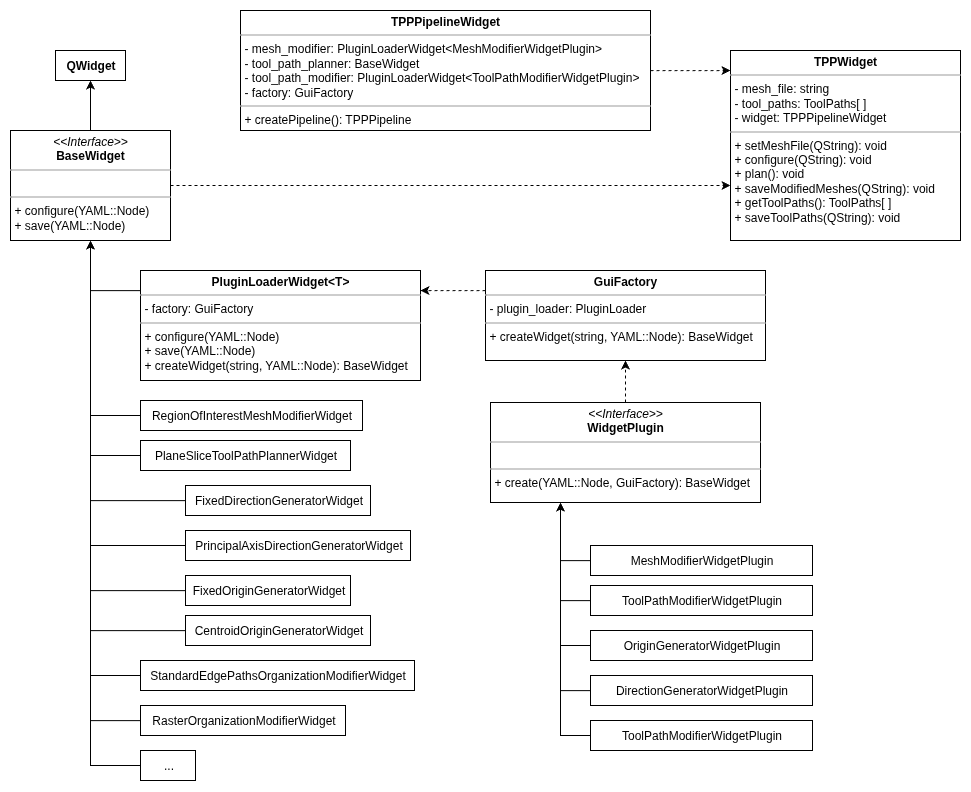
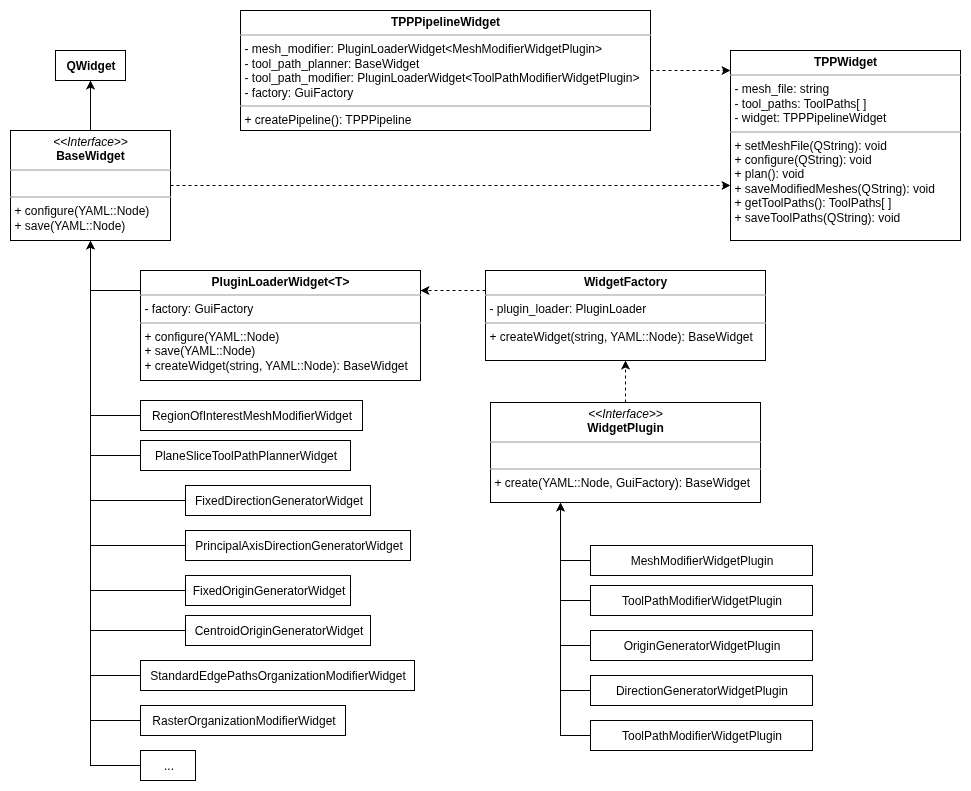
Renamed GuiFactory to WidgetFactory

diff --git a/noether_gui/src/plugin_interface.cpp b/noether_gui/src/plugin_interface.cpp
@@ -28,7 +28,7 @@ std::string noether::ToolPathModifierWidgetPlugin::getSection()
   return STRINGIFY(NOETHER_GUI_TOOL_PATH_MODIFIER_SECTION);
 }
 
-GuiFactory::GuiFactory()
+WidgetFactory::WidgetFactory()
 {
   auto loader = std::make_shared<boost_plugin_loader::PluginLoader>();
   loader->search_libraries.insert(NOETHER_PLUGIN_LIB);
@@ -38,47 +38,47 @@ GuiFactory::GuiFactory()
   loader_ = loader;
 }
 
-GuiFactory::GuiFactory(std::shared_ptr<const boost_plugin_loader::PluginLoader> loader) : Factory(loader) {}
+WidgetFactory::WidgetFactory(std::shared_ptr<const boost_plugin_loader::PluginLoader> loader) : Factory(loader) {}
 
 template <typename PluginT>
-BaseWidget* GuiFactory::createWidget(const std::string& name, const YAML::Node& config, QWidget* parent) const
+BaseWidget* WidgetFactory::createWidget(const std::string& name, const YAML::Node& config, QWidget* parent) const
 {
   if (widget_plugins_.find(name) == widget_plugins_.end())
     widget_plugins_[name] = loader_->createInstance<PluginT>(name);
 
-  auto this_shared = std::shared_ptr<const GuiFactory>(this, [](const GuiFactory*) {});
+  auto this_shared = std::shared_ptr<const WidgetFactory>(this, [](const WidgetFactory*) {});
   return widget_plugins_[name]->create(config, this_shared, parent);
 }
 
-BaseWidget* GuiFactory::createMeshModifierWidget(const std::string& name,
+BaseWidget* WidgetFactory::createMeshModifierWidget(const std::string& name,
                                                  const YAML::Node& config,
                                                  QWidget* parent) const
 {
   return createWidget<MeshModifierWidgetPlugin>(name, config, parent);
 }
 
-BaseWidget* GuiFactory::createToolPathPlannerWidget(const std::string& name,
+BaseWidget* WidgetFactory::createToolPathPlannerWidget(const std::string& name,
                                                     const YAML::Node& config,
                                                     QWidget* parent) const
 {
   return createWidget<ToolPathPlannerWidgetPlugin>(name, config, parent);
 }
 
-BaseWidget* GuiFactory::createDirectionGeneratorWidget(const std::string& name,
+BaseWidget* WidgetFactory::createDirectionGeneratorWidget(const std::string& name,
                                                        const YAML::Node& config,
                                                        QWidget* parent) const
 {
   return createWidget<DirectionGeneratorWidgetPlugin>(name, config, parent);
 }
 
-BaseWidget* GuiFactory::createOriginGeneratorWidget(const std::string& name,
+BaseWidget* WidgetFactory::createOriginGeneratorWidget(const std::string& name,
                                                     const YAML::Node& config,
                                                     QWidget* parent) const
 {
   return createWidget<OriginGeneratorWidgetPlugin>(name, config, parent);
 }
 
-BaseWidget* GuiFactory::createToolPathModifierWidget(const std::string& name,
+BaseWidget* WidgetFactory::createToolPathModifierWidget(const std::string& name,
                                                      const YAML::Node& config,
                                                      QWidget* parent) const
 {

diff --git a/noether_gui/include/noether_gui/plugin_interface.h b/noether_gui/include/noether_gui/plugin_interface.h
@@ -9,7 +9,7 @@
 
 namespace noether
 {
-class GuiFactory;
+class WidgetFactory;
 
 /**
  * @ingroup gui_interfaces
@@ -30,7 +30,7 @@ public:
    * @param parent Parent widget
    */
   virtual BaseWidget* create(const YAML::Node& config,
-                             std::shared_ptr<const GuiFactory> factory,
+                             std::shared_ptr<const WidgetFactory> factory,
                              QWidget* parent = nullptr) const = 0;
 };
 
@@ -103,7 +103,7 @@ template <typename WidgetT, typename WidgetPluginT>
 struct SimpleWidgetPlugin : WidgetPluginT
 {
   BaseWidget* create(const YAML::Node& config,
-                     std::shared_ptr<const GuiFactory> /*loader*/,
+                     std::shared_ptr<const WidgetFactory> /*loader*/,
                      QWidget* parent = nullptr) const override final
   {
     auto widget = new WidgetT(parent);
@@ -120,11 +120,11 @@ struct SimpleWidgetPlugin : WidgetPluginT
  * @ingroup gui_interfaces
  * @brief Extends the Factory class to be able to load widget plugins for the GUI
  */
-class GuiFactory : public Factory
+class WidgetFactory : public Factory
 {
 public:
-  GuiFactory();
-  GuiFactory(std::shared_ptr<const boost_plugin_loader::PluginLoader> loader);
+  WidgetFactory();
+  WidgetFactory(std::shared_ptr<const boost_plugin_loader::PluginLoader> loader);
 
   template <typename PluginT>
   BaseWidget* createWidget(const std::string& name, const YAML::Node& config, QWidget* parent = nullptr) const;

diff --git a/noether_gui/src/plugins.cpp b/noether_gui/src/plugins.cpp
@@ -85,7 +85,7 @@ EXPORT_SIMPLE_TOOL_PATH_MODIFIER_WIDGET_PLUGIN(UniformSpacingLinearModifierWidge
 struct Plugin_PlaneSlicerRasterPlannerWidget : WidgetPlugin
 {
   BaseWidget* create(const YAML::Node& config,
-                     std::shared_ptr<const GuiFactory> factory,
+                     std::shared_ptr<const WidgetFactory> factory,
                      QWidget* parent = nullptr) const override final
   {
     auto widget = new PlaneSlicerRasterPlannerWidget(factory, parent);
@@ -126,7 +126,7 @@ namespace noether
 struct Plugin_CrossHatchPlaneSlicerRasterPlannerWidget : WidgetPlugin
 {
   BaseWidget* create(const YAML::Node& config,
-                     std::shared_ptr<const GuiFactory> factory,
+                     std::shared_ptr<const WidgetFactory> factory,
                      QWidget* parent = nullptr) const override final
   {
     auto widget = new CrossHatchPlaneSlicerRasterPlannerWidget(factory, parent);

diff --git a/noether_gui/include/noether_gui/widgets/tpp_pipeline_widget.h b/noether_gui/include/noether_gui/widgets/tpp_pipeline_widget.h
@@ -18,7 +18,7 @@ namespace noether
 class TPPPipelineWidget : public BaseWidget
 {
 public:
-  TPPPipelineWidget(std::shared_ptr<const GuiFactory> factory, QWidget* parent = nullptr);
+  TPPPipelineWidget(std::shared_ptr<const WidgetFactory> factory, QWidget* parent = nullptr);
 
   ToolPathPlannerPipeline createPipeline() const;
 
@@ -26,7 +26,7 @@ public:
   void save(YAML::Node& config) const override;
 
 protected:
-  std::shared_ptr<const GuiFactory> factory_;
+  std::shared_ptr<const WidgetFactory> factory_;
   PluginLoaderWidget<MeshModifierWidgetPlugin>* mesh_modifier_loader_widget_;
   PluginLoaderWidget<ToolPathModifierWidgetPlugin>* tool_path_modifier_loader_widget_;
   Ui::TPPPipeline* ui_;

diff --git a/noether_gui/include/noether_gui/widgets/plugin_loader_widget.h b/noether_gui/include/noether_gui/widgets/plugin_loader_widget.h
@@ -21,7 +21,7 @@ template <typename PluginT>
 class PluginLoaderWidget : public BaseWidget
 {
 public:
-  PluginLoaderWidget(std::shared_ptr<const GuiFactory> factory, const QString& title, QWidget* parent = nullptr);
+  PluginLoaderWidget(std::shared_ptr<const WidgetFactory> factory, const QString& title, QWidget* parent = nullptr);
   ~PluginLoaderWidget();
 
   QWidgetList getWidgets() const;
@@ -36,7 +36,7 @@ protected:
   void shiftCurrentWidget(const int offset);
 
   Ui::PluginLoader* ui_;
-  std::shared_ptr<const GuiFactory> factory_;
+  std::shared_ptr<const WidgetFactory> factory_;
 };
 
 }  // namespace noether

diff --git a/noether_gui/src/widgets/configurable_tpp_pipeline_widget.cpp b/noether_gui/src/widgets/configurable_tpp_pipeline_widget.cpp
@@ -10,7 +10,7 @@
 
 namespace noether
 {
-ConfigurableTPPPipelineWidget::ConfigurableTPPPipelineWidget(std::shared_ptr<const GuiFactory> factory,
+ConfigurableTPPPipelineWidget::ConfigurableTPPPipelineWidget(std::shared_ptr<const WidgetFactory> factory,
                                                              std::string default_configuration_file_directory,
                                                              QWidget* parent)
   : TPPPipelineWidget(factory, parent), default_configuration_file_directory_(default_configuration_file_directory)

diff --git a/noether_gui/include/noether_gui/widgets/tool_path_planners/raster/raster_planner_widget.h b/noether_gui/include/noether_gui/widgets/tool_path_planners/raster/raster_planner_widget.h
@@ -14,7 +14,7 @@ class Node;
 
 namespace noether
 {
-class GuiFactory;
+class WidgetFactory;
 
 /**
  * @ingroup gui_widgets_tool_path_planners
@@ -22,7 +22,7 @@ class GuiFactory;
 class RasterPlannerWidget : public BaseWidget
 {
 public:
-  RasterPlannerWidget(std::shared_ptr<const GuiFactory> factory, QWidget* parent = nullptr);
+  RasterPlannerWidget(std::shared_ptr<const WidgetFactory> factory, QWidget* parent = nullptr);
 
   void configure(const YAML::Node&) override;
   void save(YAML::Node&) const override;

diff --git a/noether_gui/include/noether_gui/widgets/tpp_widget.h b/noether_gui/include/noether_gui/widgets/tpp_widget.h
@@ -35,7 +35,7 @@ class TPP;
 namespace noether
 {
 class ConfigurableTPPPipelineWidget;
-class GuiFactory;
+class WidgetFactory;
 
 enum class LineStyle
 {
@@ -52,7 +52,7 @@ enum class LineStyle
 class TPPWidget : public QMainWindow
 {
 public:
-  TPPWidget(std::shared_ptr<const GuiFactory> factory, QWidget* parent = nullptr);
+  TPPWidget(std::shared_ptr<const WidgetFactory> factory, QWidget* parent = nullptr);
 
   /**
    * @brief Sets the file path for the mesh to use for tool path planning

diff --git a/noether_gui/include/noether_gui/widgets/tool_path_planners/raster/cross_hatch_plane_slicer_raster_planner_widget.h b/noether_gui/include/noether_gui/widgets/tool_path_planners/raster/cross_hatch_plane_slicer_raster_planner_widget.h
@@ -12,7 +12,7 @@ class AngleDoubleSpinBox;
 class CrossHatchPlaneSlicerRasterPlannerWidget : public PlaneSlicerRasterPlannerWidget
 {
 public:
-  CrossHatchPlaneSlicerRasterPlannerWidget(std::shared_ptr<const GuiFactory> factory, QWidget* parent = nullptr);
+  CrossHatchPlaneSlicerRasterPlannerWidget(std::shared_ptr<const WidgetFactory> factory, QWidget* parent = nullptr);
 
   void configure(const YAML::Node&) override;
   void save(YAML::Node&) const override;

diff --git a/noether_gui/src/widgets/plugin_loader_widget.cpp b/noether_gui/src/widgets/plugin_loader_widget.cpp
@@ -9,7 +9,7 @@
 namespace noether
 {
 template <typename PluginT>
-PluginLoaderWidget<PluginT>::PluginLoaderWidget(std::shared_ptr<const GuiFactory> factory,
+PluginLoaderWidget<PluginT>::PluginLoaderWidget(std::shared_ptr<const WidgetFactory> factory,
                                                 const QString& title,
                                                 QWidget* parent)
   : BaseWidget(parent), ui_(new Ui::PluginLoader()), factory_(factory)

diff --git a/noether_gui/src/widgets/tool_path_planners/raster/plane_slicer_raster_planner_widget.cpp b/noether_gui/src/widgets/tool_path_planners/raster/plane_slicer_raster_planner_widget.cpp
@@ -10,7 +10,7 @@
 
 namespace noether
 {
-PlaneSlicerRasterPlannerWidget::PlaneSlicerRasterPlannerWidget(std::shared_ptr<const GuiFactory> factory,
+PlaneSlicerRasterPlannerWidget::PlaneSlicerRasterPlannerWidget(std::shared_ptr<const WidgetFactory> factory,
                                                                QWidget* parent)
   : RasterPlannerWidget(factory, parent)
   , search_radius_(new DistanceDoubleSpinBox(this))

diff --git a/noether_gui/include/noether_gui/widgets/tool_path_planners/raster/plane_slicer_raster_planner_widget.h b/noether_gui/include/noether_gui/widgets/tool_path_planners/raster/plane_slicer_raster_planner_widget.h
@@ -14,7 +14,7 @@ class DistanceDoubleSpinBox;
 class PlaneSlicerRasterPlannerWidget : public RasterPlannerWidget
 {
 public:
-  PlaneSlicerRasterPlannerWidget(std::shared_ptr<const GuiFactory> factory, QWidget* parent = nullptr);
+  PlaneSlicerRasterPlannerWidget(std::shared_ptr<const WidgetFactory> factory, QWidget* parent = nullptr);
 
   void configure(const YAML::Node&) override;
   void save(YAML::Node&) const override;
